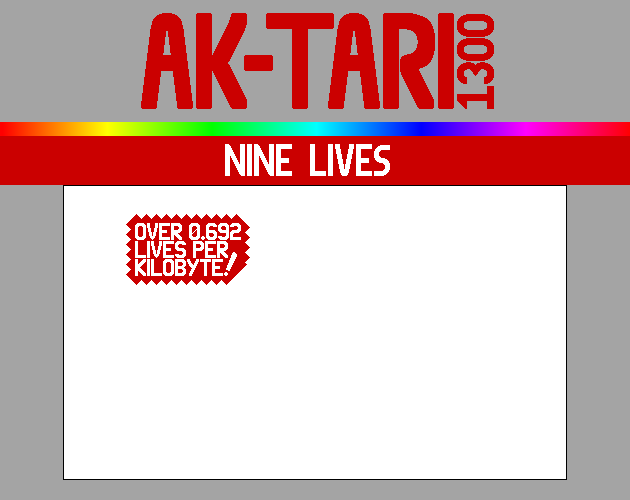
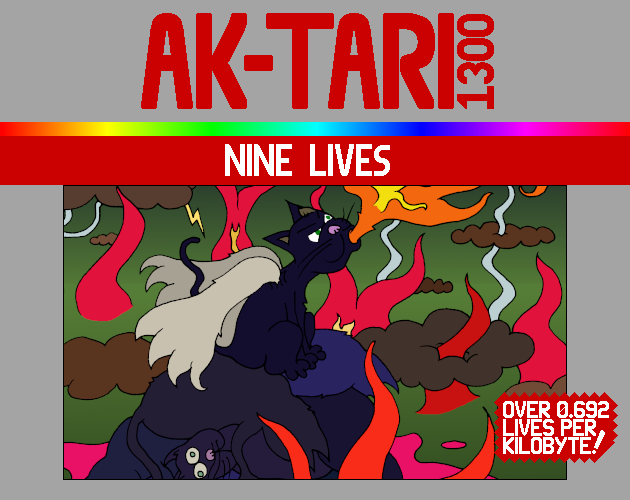
promo art

diff --git a/README.md b/README.md
@@ -18,7 +18,7 @@ Entry for js13k 2025, theme "BLACK CAT".
 - [x] 13 sensible maps.
 - [x] Put maps in order.
 - [x] "reset level" key.
-- [ ] Promo pics.
+- [x] Promo pics.
 - - js13k cover: 320x320 (<=50 kb)
 - - js13k hero: 800x500 (<=200 kb)
 - - itch cover: 630x500
